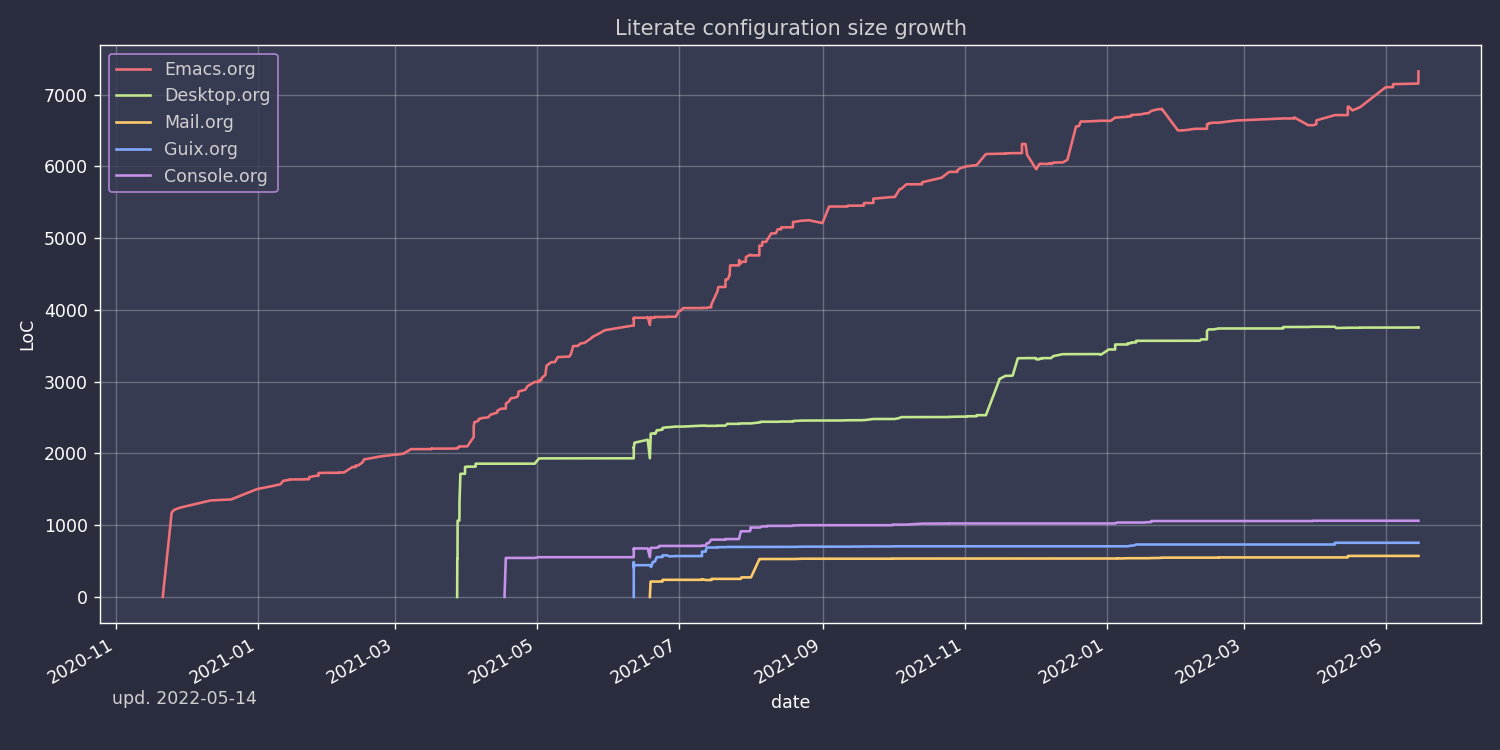
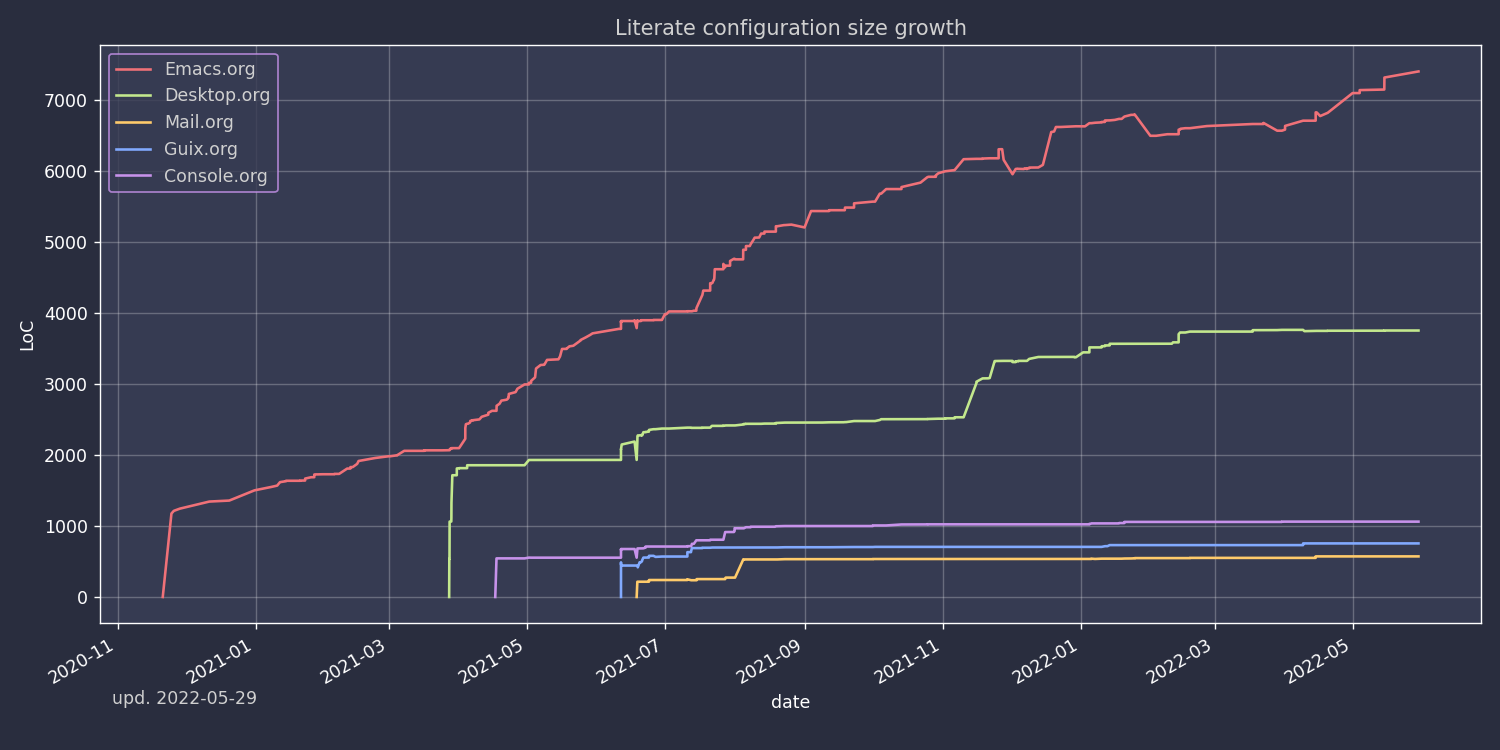
deploy: 8e7e13d4e451b37f75d1f5a198356fab99b9c6fb

diff --git a/configs/emacs/index.html b/configs/emacs/index.html
@@ -275,6 +275,7 @@ One thing where Emacs is particularly good is writing Lisp code, e.g. Clojure, C
 </ul>
 </li>
 <li><a href="#reformatter">Reformatter</a></li>
+<li><a href="#copilot">copilot</a></li>
 <li><a href="#general-additional-config">General additional config</a></li>
 </ul>
 </li>
@@ -528,6 +529,7 @@ One thing where Emacs is particularly good is writing Lisp code, e.g. Clojure, C
 <li><a href="#some-additions">Some additions</a></li>
 <li><a href="#custom-faces">Custom faces</a></li>
 <li><a href="#elfeed-summary">elfeed-summary</a></li>
+<li><a href="#elfeed-sync">elfeed-sync</a></li>
 <li><a href="#elfeed-score">elfeed-score</a></li>
 <li><a href="#youtube-podcasts-and-emms">YouTube, podcasts &amp; EMMS</a></li>
 <li><a href="#rdrview">rdrview</a>
@@ -564,6 +566,7 @@ One thing where Emacs is particularly good is writing Lisp code, e.g. Clojure, C
 </ul>
 </li>
 <li><a href="#ytel">ytel</a></li>
+<li><a href="#wallabag">wallabag</a></li>
 <li><a href="#eww">EWW</a></li>
 <li><a href="#erc">ERC</a></li>
 <li><a href="#ement-dot-el">ement.el</a></li>
@@ -2160,6 +2163,7 @@ One thing where Emacs is particularly good is writing Lisp code, e.g. Clojure, C
 </span></span><span style="display:flex;"><span>  (<span style="color:#19177c">dap-chrome-setup</span>)
 </span></span><span style="display:flex;"><span>
 </span></span><span style="display:flex;"><span>  (<span style="color:#008000">require</span> <span style="color:#19177c">&#39;dap-python</span>)
+</span></span><span style="display:flex;"><span>  (<span style="color:#008000">require</span> <span style="color:#19177c">&#39;dap-php</span>)
 </span></span><span style="display:flex;"><span>
 </span></span><span style="display:flex;"><span>  (<span style="color:#19177c">dap-mode</span> <span style="color:#666">1</span>)
 </span></span><span style="display:flex;"><span>  (<span style="color:#19177c">dap-ui-mode</span> <span style="color:#666">1</span>)
@@ -2414,6 +2418,32 @@ One thing where Emacs is particularly good is writing Lisp code, e.g. Clojure, C
 <p>A general-purpose package to run formatters on files. While the most popular formatters are already packaged for Emacs, those that aren&rsquo;t can be invoked with this package.</p>
 <div class="highlight"><pre tabindex="0" style=";-moz-tab-size:4;-o-tab-size:4;tab-size:4;"><code class="language-emacs-lisp" data-lang="emacs-lisp"><span style="display:flex;"><span>(<span style="color:#008000">use-package</span> <span style="color:#19177c">reformatter</span>
 </span></span><span style="display:flex;"><span>  <span style="color:#008000">:straight</span> <span style="color:#800">t</span>)
+</span></span></code></pre></div><h4 id="copilot">copilot</h4>
+<p><a href="https://copilot.github.com/">GitHub Copilot</a> is a project of GitHub and OpenAI that provides code completions. It&rsquo;s somewhat controversial in the Emacs community but I opt in using it for now.</p>
+<div class="highlight"><pre tabindex="0" style=";-moz-tab-size:4;-o-tab-size:4;tab-size:4;"><code class="language-emacs-lisp" data-lang="emacs-lisp"><span style="display:flex;"><span>(<span style="color:#008000">defun</span> <span style="color:#19177c">my/copilot-tab</span> ()
+</span></span><span style="display:flex;"><span>  (<span style="color:#008000">interactive</span>)
+</span></span><span style="display:flex;"><span>  (<span style="color:#008000">or</span> (<span style="color:#19177c">copilot-accept-completion</span>)
+</span></span><span style="display:flex;"><span>      (<span style="color:#19177c">indent-for-tab-command</span>)))
+</span></span><span style="display:flex;"><span>
+</span></span><span style="display:flex;"><span>(<span style="color:#008000">defun</span> <span style="color:#19177c">my/setup-copilot</span> ()
+</span></span><span style="display:flex;"><span>  (<span style="color:#00f">use-local-map</span> <span style="color:#19177c">my/copilot-mode-map</span>))
+</span></span><span style="display:flex;"><span>
+</span></span><span style="display:flex;"><span>(<span style="color:#008000">defvar</span> <span style="color:#19177c">my/copilot-mode-map</span>
+</span></span><span style="display:flex;"><span>  (<span style="color:#008000">let</span> ((<span style="color:#19177c">map</span> (<span style="color:#00f">make-sparse-keymap</span>)))
+</span></span><span style="display:flex;"><span>    (<span style="color:#19177c">evil-define-key*</span> <span style="color:#19177c">&#39;insert</span> <span style="color:#19177c">map</span>
+</span></span><span style="display:flex;"><span>      (<span style="color:#19177c">kbd</span> <span style="color:#ba2121">&#34;&lt;tab&gt;&#34;</span>) <span style="color:#00f">#&#39;</span><span style="color:#19177c">my/copilot-tab</span>)
+</span></span><span style="display:flex;"><span>    <span style="color:#19177c">map</span>))
+</span></span><span style="display:flex;"><span>
+</span></span><span style="display:flex;"><span>(<span style="color:#008000">define-minor-mode</span> <span style="color:#19177c">my/copilot-mode</span>
+</span></span><span style="display:flex;"><span>  <span style="color:#ba2121">&#34;My keybings for copilot.el&#34;</span>)
+</span></span><span style="display:flex;"><span>
+</span></span><span style="display:flex;"><span>(<span style="color:#008000">use-package</span> <span style="color:#19177c">copilot</span>
+</span></span><span style="display:flex;"><span>  <span style="color:#008000">:straight</span> (<span style="color:#008000">:host</span> <span style="color:#19177c">github</span> <span style="color:#008000">:repo</span> <span style="color:#ba2121">&#34;zerolfx/copilot.el&#34;</span> <span style="color:#008000">:files</span> (<span style="color:#ba2121">&#34;dist&#34;</span> <span style="color:#ba2121">&#34;*.el&#34;</span>))
+</span></span><span style="display:flex;"><span>  <span style="color:#008000">:commands</span> (<span style="color:#19177c">copilot-mode</span>)
+</span></span><span style="display:flex;"><span>  <span style="color:#008000">:init</span>
+</span></span><span style="display:flex;"><span>  (<span style="color:#19177c">add-hook</span> <span style="color:#19177c">&#39;prog-mode-hook</span> <span style="color:#00f">#&#39;</span><span style="color:#19177c">copilot-mode</span>)
+</span></span><span style="display:flex;"><span>  <span style="color:#008000">:config</span>
+</span></span><span style="display:flex;"><span>  (<span style="color:#19177c">add-hook</span> <span style="color:#19177c">&#39;copilot-mode-hook</span> <span style="color:#00f">#&#39;</span><span style="color:#19177c">my/copilot-mode</span>))
 </span></span></code></pre></div><h4 id="general-additional-config">General additional config</h4>
 <p>Make smartparens behave the way I like for C-like languages.</p>
 <div class="highlight"><pre tabindex="0" style=";-moz-tab-size:4;-o-tab-size:4;tab-size:4;"><code class="language-emacs-lisp" data-lang="emacs-lisp"><span style="display:flex;"><span>(<span style="color:#008000">defun</span> <span style="color:#19177c">my/set-smartparens-indent</span> (<span style="color:#19177c">mode</span>)
@@ -5448,6 +5478,16 @@ One thing where Emacs is particularly good is writing Lisp code, e.g. Clojure, C
 </span></span><span style="display:flex;"><span>  <span style="color:#008000">:straight</span> <span style="color:#800">t</span>
 </span></span><span style="display:flex;"><span>  <span style="color:#008000">:config</span>
 </span></span><span style="display:flex;"><span>  (<span style="color:#008000">setq</span> <span style="color:#19177c">elfeed-summary-filter-by-title</span> <span style="color:#800">t</span>))
+</span></span></code></pre></div><h5 id="elfeed-sync">elfeed-sync</h5>
+<p><a href="https://github.com/SqrtMinusOne/elfeed-sync">elfeed-sync</a> is my package to sync elfeed with <a href="https://tt-rss.org/">tt-rss</a>.</p>
+<div class="highlight"><pre tabindex="0" style=";-moz-tab-size:4;-o-tab-size:4;tab-size:4;"><code class="language-emacs-lisp" data-lang="emacs-lisp"><span style="display:flex;"><span>(<span style="color:#008000">use-package</span> <span style="color:#19177c">elfeed-sync</span>
+</span></span><span style="display:flex;"><span>  <span style="color:#008000">:straight</span> (<span style="color:#008000">:host</span> <span style="color:#19177c">github</span> <span style="color:#008000">:repo</span> <span style="color:#ba2121">&#34;SqrtMinusOne/elfeed-sync&#34;</span>)
+</span></span><span style="display:flex;"><span>  <span style="color:#008000">:after</span> <span style="color:#19177c">elfeed</span>
+</span></span><span style="display:flex;"><span>  <span style="color:#008000">:config</span>
+</span></span><span style="display:flex;"><span>  (<span style="color:#19177c">elfeed-sync-mode</span>)
+</span></span><span style="display:flex;"><span>  (<span style="color:#008000">setq</span> <span style="color:#19177c">elfeed-sync-tt-rss-instance</span> <span style="color:#ba2121">&#34;https://sqrtminusone.xyz/tt-rss&#34;</span>)
+</span></span><span style="display:flex;"><span>  (<span style="color:#008000">setq</span> <span style="color:#19177c">elfeed-sync-tt-rss-login</span> <span style="color:#ba2121">&#34;sqrtminusone&#34;</span>)
+</span></span><span style="display:flex;"><span>  (<span style="color:#008000">setq</span> <span style="color:#19177c">elfeed-sync-tt-rss-password</span> (<span style="color:#19177c">my/password-store-get</span> <span style="color:#ba2121">&#34;Selfhosted/tt-rss&#34;</span>)))
 </span></span></code></pre></div><h5 id="elfeed-score">elfeed-score</h5>
 <p><a href="https://github.com/sp1ff/elfeed-score">elfeed-score</a> is a package that implements scoring for the elfeed entries. Entries are scored by a set of rules for tags/title/content/etc and sorted by that score.</p>
 <div class="highlight"><pre tabindex="0" style=";-moz-tab-size:4;-o-tab-size:4;tab-size:4;"><code class="language-emacs-lisp" data-lang="emacs-lisp"><span style="display:flex;"><span>(<span style="color:#008000">defun</span> <span style="color:#19177c">my/elfeed-toggle-score-sort</span> ()
@@ -5642,7 +5682,12 @@ One thing where Emacs is particularly good is writing Lisp code, e.g. Clojure, C
 </span></span><span style="display:flex;"><span>       (<span style="color:#008000">setq-local</span> <span style="color:#19177c">my/elfeed-show-rdrview-html</span> <span style="color:#19177c">content</span>)
 </span></span><span style="display:flex;"><span>       (<span style="color:#00f">goto-char</span> (<span style="color:#00f">point-min</span>))))))
 </span></span></code></pre></div><p>That way, calling <code>M-x my/rdrview-elfeed-show</code> replaces the original content with one from <code>rdrview</code>.</p>
-<h6 id="how-well-does-it-work">How well does it work?</h6>
+<div class="highlight"><pre tabindex="0" style=";-moz-tab-size:4;-o-tab-size:4;tab-size:4;"><code class="language-emacs-lisp" data-lang="emacs-lisp"><span style="display:flex;"><span>(<span style="color:#008000">with-eval-after-load</span> <span style="color:#19177c">&#39;elfeed</span>
+</span></span><span style="display:flex;"><span>  (<span style="color:#19177c">general-define-key</span>
+</span></span><span style="display:flex;"><span>   <span style="color:#008000">:states</span> <span style="color:#666">&#39;</span>(<span style="color:#19177c">normal</span>)
+</span></span><span style="display:flex;"><span>   <span style="color:#008000">:keymaps</span> <span style="color:#19177c">&#39;elfeed-show-mode-map</span>
+</span></span><span style="display:flex;"><span>   <span style="color:#ba2121">&#34;gp&#34;</span> <span style="color:#00f">#&#39;</span><span style="color:#19177c">my/rdrview-elfeed-show</span>))
+</span></span></code></pre></div><h6 id="how-well-does-it-work">How well does it work?</h6>
 <p>Rather ironically, it works well with sites that already ship with proper RSS, like <a href="https://protesilaos.com/">Protesilaos Stavrou&rsquo;s</a> or <a href="https://karthinks.com/software/simple-folding-with-hideshow/">Karthik Chikmagalur&rsquo;s</a> blogs or <a href="https://www.theatlantic.com/world/">The Atlantic</a> magazine.</p>
 <p>Of my other subscriptions, it does a pretty good job with <a href="https://www.theverge.com/">The Verge</a>, which by default sends entries truncated by the words &ldquo;Read the full article&rdquo;. For <a href="https://arstechnica.com/">Ars Technica</a>, it works only if the story is not large enough, otherwise the site returns its HTML-based pagination interface.</p>
 <p>For paywalled sites such as <a href="https://www.nytimes.com/">New York Times</a> or <a href="https://www.economist.com/">The Economist</a>, this usually doesn&rsquo;t work (by the way, what&rsquo;s the problem with providing individual RSS feeds for subscribers?). If you need this kind of thing, I&rsquo;d suggest using the <a href="https://github.com/RSS-Bridge/rss-bridge">RSS-Bridge</a> project. And if something is not available, contributing business logic there definitely makes more sense than implementing workarounds in Emacs Lisp.</p>
@@ -5717,7 +5762,7 @@ One thing where Emacs is particularly good is writing Lisp code, e.g. Clojure, C
 </span></span><span style="display:flex;"><span>		      (<span style="color:#00f">funcall</span> <span style="color:#19177c">callback</span> <span style="color:#19177c">file-name</span>)))
 </span></span><span style="display:flex;"><span>		   ((<span style="color:#008000">or</span> (<span style="color:#008000">and</span> (<span style="color:#00f">eq</span> <span style="color:#19177c">status</span> <span style="color:#19177c">&#39;exit</span>) (<span style="color:#00f">&gt;</span> <span style="color:#19177c">code</span> <span style="color:#666">0</span>))
 </span></span><span style="display:flex;"><span>			(<span style="color:#00f">eq</span> <span style="color:#19177c">status</span> <span style="color:#19177c">&#39;signal</span>))
-</span></span><span style="display:flex;"><span>		    (<span style="color:#d2413a;font-weight:bold">user-error</span> <span style="color:#ba2121">&#34;Error in pandoc. Check the *Pandoc* buffer&#34;</span>)))))))))
+</span></span><span style="display:flex;"><span>		    (<span style="color:#d2413a;font-weight:bold">user-error</span> <span style="color:#ba2121">&#34;Error in pandoc. Check the *Pandoc* buffer&#34;</span>))))))))))
 </span></span></code></pre></div><h6 id="opening-elfeed-entries">Opening elfeed entries</h6>
 <p>Now we have everything required to open elfeed entries.</p>
 <p>Also, in my case elfeed entries come in two languages, so I have to set <code>main-lang</code> and <code>other-lang</code> variables accordingly. Here&rsquo;s the main function:</p>
@@ -5767,7 +5812,12 @@ One thing where Emacs is particularly good is writing Lisp code, e.g. Clojure, C
 </span></span><span style="display:flex;"><span>     <span style="color:#008000">:file-name</span> <span style="color:#19177c">file-name</span>
 </span></span><span style="display:flex;"><span>     <span style="color:#008000">:overwrite</span> <span style="color:#19177c">current-prefix-arg</span>)))
 </span></span></code></pre></div><p>If the <code>my/elfeed-show-rdrview-html</code> variable is bound and true, then the content in this buffer was retrieved via <code>rdrview</code>, so we&rsquo;ll use that instead of the output of <code>elfeed-deref</code>.</p>
-<p>Now we can open elfeed entries in a PDF viewer, which I find much nicer to read. Given that RSS feeds generally ship with simpler HTML than the regular websites, results usually look awesome.</p>
+<div class="highlight"><pre tabindex="0" style=";-moz-tab-size:4;-o-tab-size:4;tab-size:4;"><code class="language-emacs-lisp" data-lang="emacs-lisp"><span style="display:flex;"><span>(<span style="color:#008000">with-eval-after-load</span> <span style="color:#19177c">&#39;elfeed</span>
+</span></span><span style="display:flex;"><span>  (<span style="color:#19177c">general-define-key</span>
+</span></span><span style="display:flex;"><span>   <span style="color:#008000">:keymaps</span> <span style="color:#666">&#39;</span>(<span style="color:#19177c">elfeed-show-mode-map</span>)
+</span></span><span style="display:flex;"><span>   <span style="color:#008000">:states</span> <span style="color:#666">&#39;</span>(<span style="color:#19177c">normal</span>)
+</span></span><span style="display:flex;"><span>   <span style="color:#ba2121">&#34;gv&#34;</span> <span style="color:#00f">#&#39;</span><span style="color:#19177c">my/elfeed-open-pdf</span>))
+</span></span></code></pre></div><p>Now we can open elfeed entries in a PDF viewer, which I find much nicer to read. Given that RSS feeds generally ship with simpler HTML than the regular websites, results usually look awesome.</p>
 <h6 id="opening-arbitrary-sites">Opening arbitrary sites</h6>
 <p>As you may have noticed, we also can display arbitrary web pages with this setup, so let&rsquo;s go ahead and implement that:</p>
 <div class="highlight"><pre tabindex="0" style=";-moz-tab-size:4;-o-tab-size:4;tab-size:4;"><code class="language-emacs-lisp" data-lang="emacs-lisp"><span style="display:flex;"><span>(<span style="color:#008000">defun</span> <span style="color:#19177c">my/get-languages</span> (<span style="color:#19177c">url</span>)
@@ -6164,6 +6214,28 @@ One thing where Emacs is particularly good is writing Lisp code, e.g. Clojure, C
 </span></span><span style="display:flex;"><span>(<span style="color:#008000">defun</span> <span style="color:#19177c">my/ytel-add-emms</span> ()
 </span></span><span style="display:flex;"><span>  (<span style="color:#008000">interactive</span>)
 </span></span><span style="display:flex;"><span>  (<span style="color:#19177c">emms-add-ytel</span> (<span style="color:#19177c">ytel-get-current-video</span>)))
+</span></span></code></pre></div><h4 id="wallabag">wallabag</h4>
+<p><a href="https://github.com/wallabag/wallabag">Wallabag</a> is a self-hosted read-it-later project. I&rsquo;m not yet sold on integrating it in my workflow, but let&rsquo;s keep it here for now.</p>
+<div class="highlight"><pre tabindex="0" style=";-moz-tab-size:4;-o-tab-size:4;tab-size:4;"><code class="language-emacs-lisp" data-lang="emacs-lisp"><span style="display:flex;"><span>(<span style="color:#008000">use-package</span> <span style="color:#19177c">wallabag</span>
+</span></span><span style="display:flex;"><span>  <span style="color:#008000">:straight</span> (<span style="color:#008000">:host</span> <span style="color:#19177c">github</span> <span style="color:#008000">:repo</span> <span style="color:#ba2121">&#34;chenyanming/wallabag.el&#34;</span> <span style="color:#008000">:files</span> (<span style="color:#008000">:defaults</span> <span style="color:#ba2121">&#34;default.css&#34;</span> <span style="color:#ba2121">&#34;emojis.alist&#34;</span>))
+</span></span><span style="display:flex;"><span>  <span style="color:#008000">:commands</span> (<span style="color:#19177c">wallabag</span> <span style="color:#19177c">wallabag-add-entry</span>)
+</span></span><span style="display:flex;"><span>  <span style="color:#008000">:config</span>
+</span></span><span style="display:flex;"><span>  (<span style="color:#008000">setq</span> <span style="color:#19177c">wallabag-host</span> <span style="color:#ba2121">&#34;https://wallabag.sqrtminusone.xyz&#34;</span>)
+</span></span><span style="display:flex;"><span>  (<span style="color:#008000">setq</span> <span style="color:#19177c">wallabag-username</span> <span style="color:#ba2121">&#34;sqrtminusone&#34;</span>)
+</span></span><span style="display:flex;"><span>  (<span style="color:#008000">setq</span> <span style="color:#19177c">wallabag-password</span> (<span style="color:#19177c">my/password-store-get</span> <span style="color:#ba2121">&#34;Selfhosted/wallabag&#34;</span>))
+</span></span><span style="display:flex;"><span>  (<span style="color:#008000">setq</span> <span style="color:#19177c">wallabag-clientid</span> (<span style="color:#19177c">password-store-get-field</span> <span style="color:#ba2121">&#34;Selfhosted/wallabag&#34;</span> <span style="color:#ba2121">&#34;client_id&#34;</span>))
+</span></span><span style="display:flex;"><span>  (<span style="color:#008000">setq</span> <span style="color:#19177c">wallabag-secret</span> (<span style="color:#19177c">password-store-get-field</span> <span style="color:#ba2121">&#34;Selfhosted/wallabag&#34;</span> <span style="color:#ba2121">&#34;client_secret&#34;</span>)))
+</span></span></code></pre></div><div class="highlight"><pre tabindex="0" style=";-moz-tab-size:4;-o-tab-size:4;tab-size:4;"><code class="language-emacs-lisp" data-lang="emacs-lisp"><span style="display:flex;"><span>(<span style="color:#008000">defun</span> <span style="color:#19177c">my/elfeed-wallabag</span> (<span style="color:#19177c">entry</span>)
+</span></span><span style="display:flex;"><span>  (<span style="color:#008000">interactive</span> (<span style="color:#00f">list</span> <span style="color:#19177c">elfeed-show-entry</span>))
+</span></span><span style="display:flex;"><span>  (<span style="color:#19177c">wallabag-add-entry</span> (<span style="color:#19177c">elfeed-entry-link</span> <span style="color:#19177c">entry</span>)
+</span></span><span style="display:flex;"><span>		      (<span style="color:#00f">mapconcat</span> <span style="color:#00f">#&#39;symbol-name</span> (<span style="color:#19177c">elfeed-entry-tags</span> <span style="color:#19177c">entry</span>) <span style="color:#ba2121">&#34;,&#34;</span>))
+</span></span><span style="display:flex;"><span>  (<span style="color:#19177c">elfeed-recommender--rate-current</span> <span style="color:#666">2</span>))
+</span></span><span style="display:flex;"><span>
+</span></span><span style="display:flex;"><span>(<span style="color:#008000">with-eval-after-load</span> <span style="color:#19177c">&#39;elfeed</span>
+</span></span><span style="display:flex;"><span>  (<span style="color:#19177c">general-define-key</span>
+</span></span><span style="display:flex;"><span>   <span style="color:#008000">:states</span> <span style="color:#666">&#39;</span>(<span style="color:#19177c">normal</span>)
+</span></span><span style="display:flex;"><span>   <span style="color:#008000">:keymaps</span> <span style="color:#666">&#39;</span>(<span style="color:#19177c">elfeed-show-mode-map</span>)
+</span></span><span style="display:flex;"><span>   <span style="color:#ba2121">&#34;gw&#34;</span> <span style="color:#00f">#&#39;</span><span style="color:#19177c">my/elfeed-wallabag</span>))
 </span></span></code></pre></div><h4 id="eww">EWW</h4>
 <p>Emacs built-in web browser. <del>I wonder if anyone actually uses it.</del></p>
 <p>I use it occasionally to open links in elfeed.</p>

diff --git a/index.html b/index.html
@@ -1,6 +1,6 @@
 <!DOCTYPE html>
 <html lang=""><head>
-	<meta name="generator" content="Hugo 0.98.0" />
+	<meta name="generator" content="Hugo 0.99.1" />
     <meta charset="utf-8">
     <meta name="viewport" content="width=device-width, initial-scale=1, shrink-to-fit=no">
 
